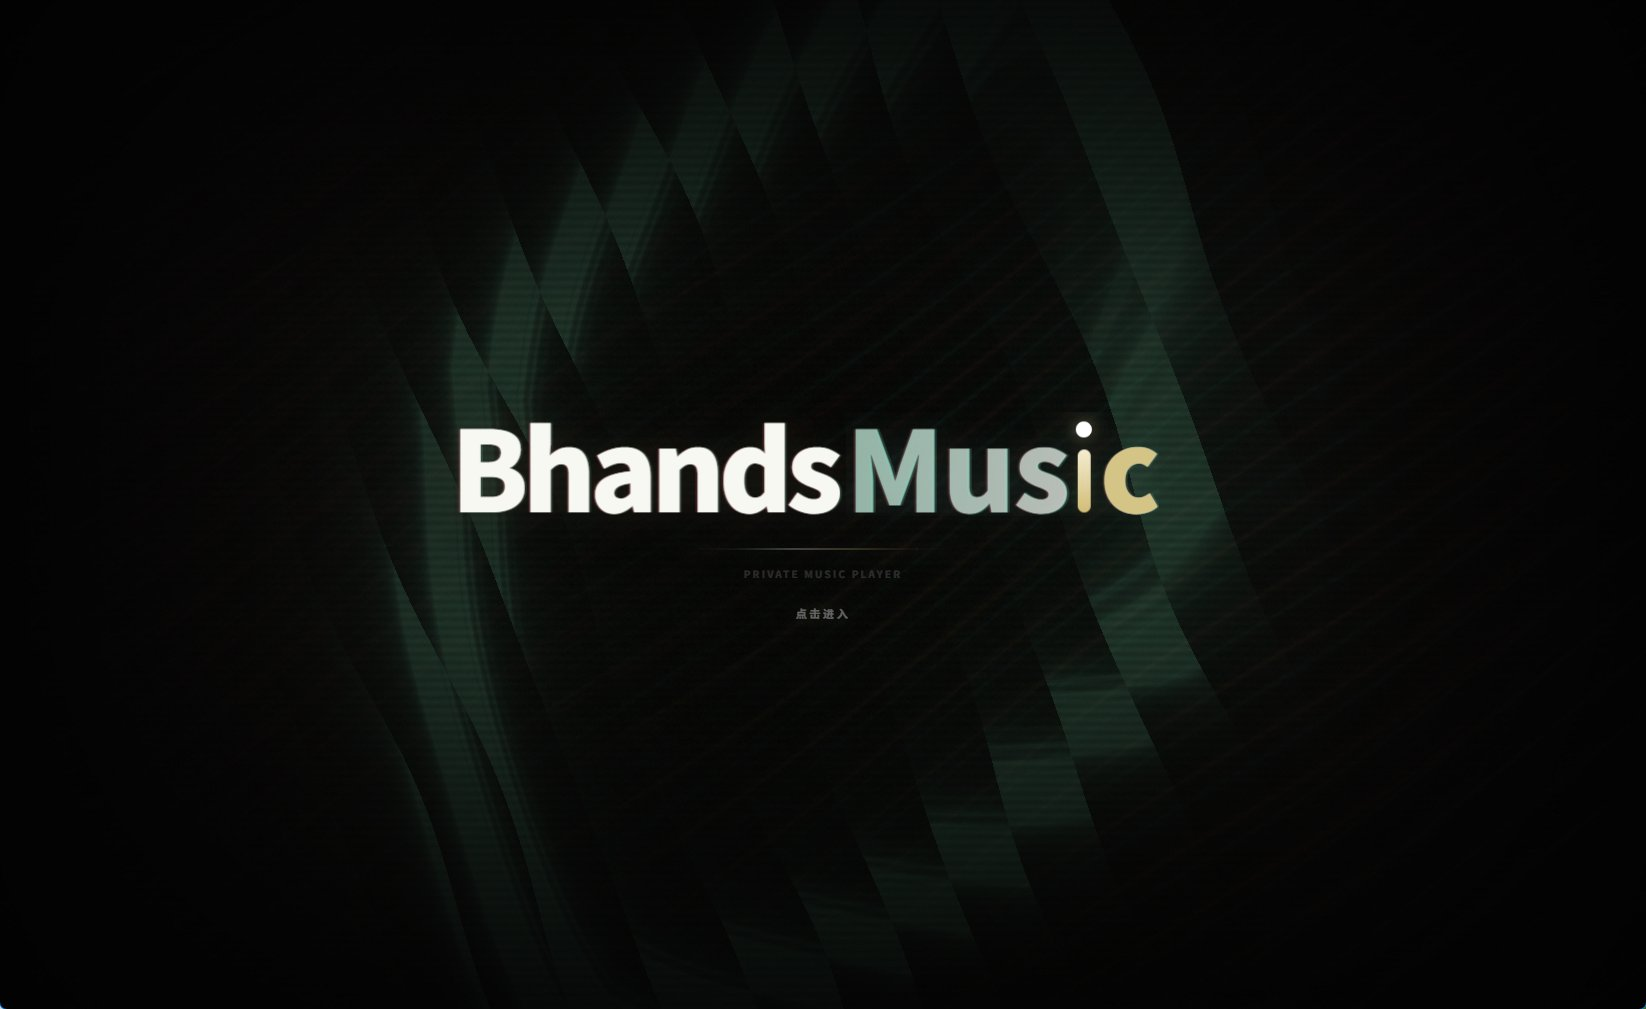
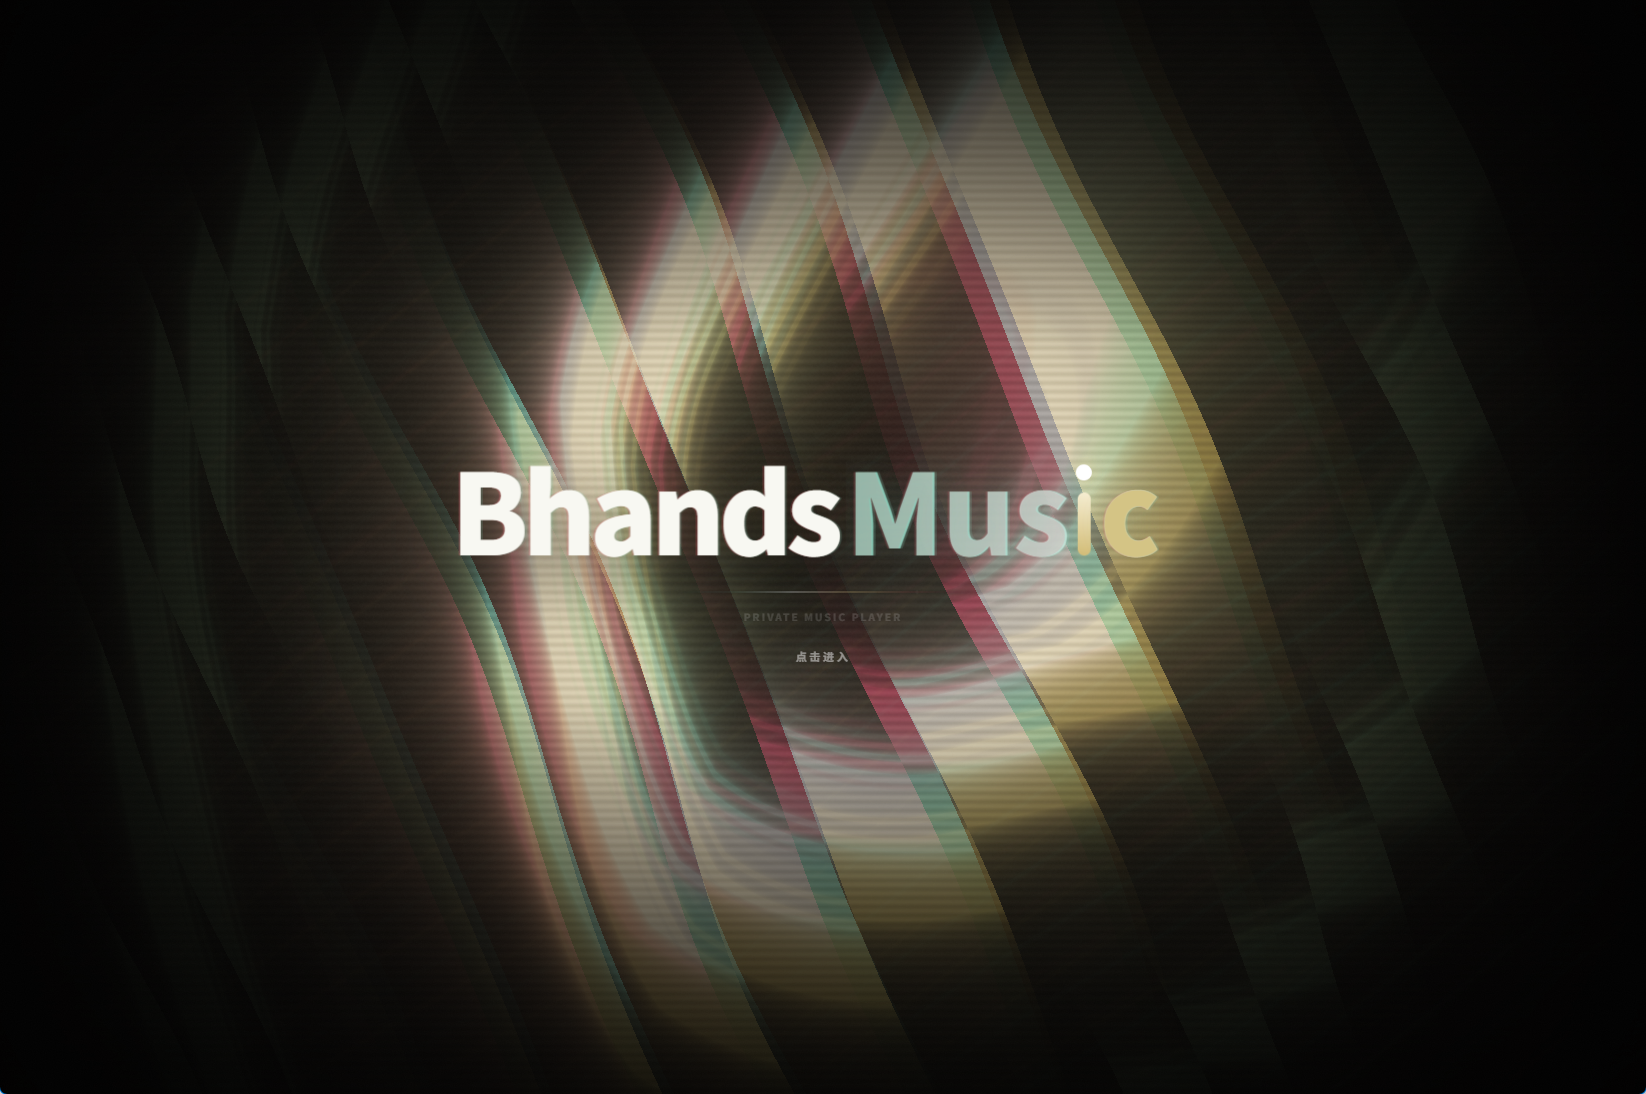
docs: 效果名更正（丝绸/滚筒/星球/虚空/唱片/星河）+ 更新启动页与丝绸截图

diff --git a/README.md b/README.md
@@ -30,8 +30,8 @@
 
 | | | |
 |:---:|:---:|:---:|
-| ![](docs/screenshots/04-player-photo-lyrics.jpg)<br>**丝绸** |![](docs/screenshots/05-fx-meteor.jpg)<br>**流星** | ![](docs/screenshots/06-fx-universe.jpg)<br>**寰宇** | 
-| ![](docs/screenshots/07-fx-vacuum.png)<br>**真空** |![](docs/screenshots/08-fx-photo.jpg)<br>**照片** | ![](docs/screenshots/09-fx-galaxy.png)<br>**银河** | 
+| ![](docs/screenshots/04-fx-meteor.jpg)<br>**丝绸** |![](docs/screenshots/05-fx-meteor.jpg)<br>**滚筒** | ![](docs/screenshots/06-fx-universe.jpg)<br>**星球** | 
+| ![](docs/screenshots/07-fx-vacuum.png)<br>**虚空** |![](docs/screenshots/08-fx-photo.jpg)<br>**唱片** | ![](docs/screenshots/09-fx-galaxy.png)<br>**星河** | 
 | ![](docs/screenshots/10-fx-aurora.jpg)<br>**极光** |![](docs/screenshots/11-fx-kaleidoscope.jpg)<br>**万花筒** | ![](docs/screenshots/12-fx-burst.jpg)<br>**迸发** | 
 | ![](docs/screenshots/13-fx-waveform.png)<br>**声波地形** |![](docs/screenshots/14-fx-spiral.jpg)<br>**螺旋星云** | ![](docs/screenshots/15-fx-jelly.jpg)<br>**水母花** |
 
